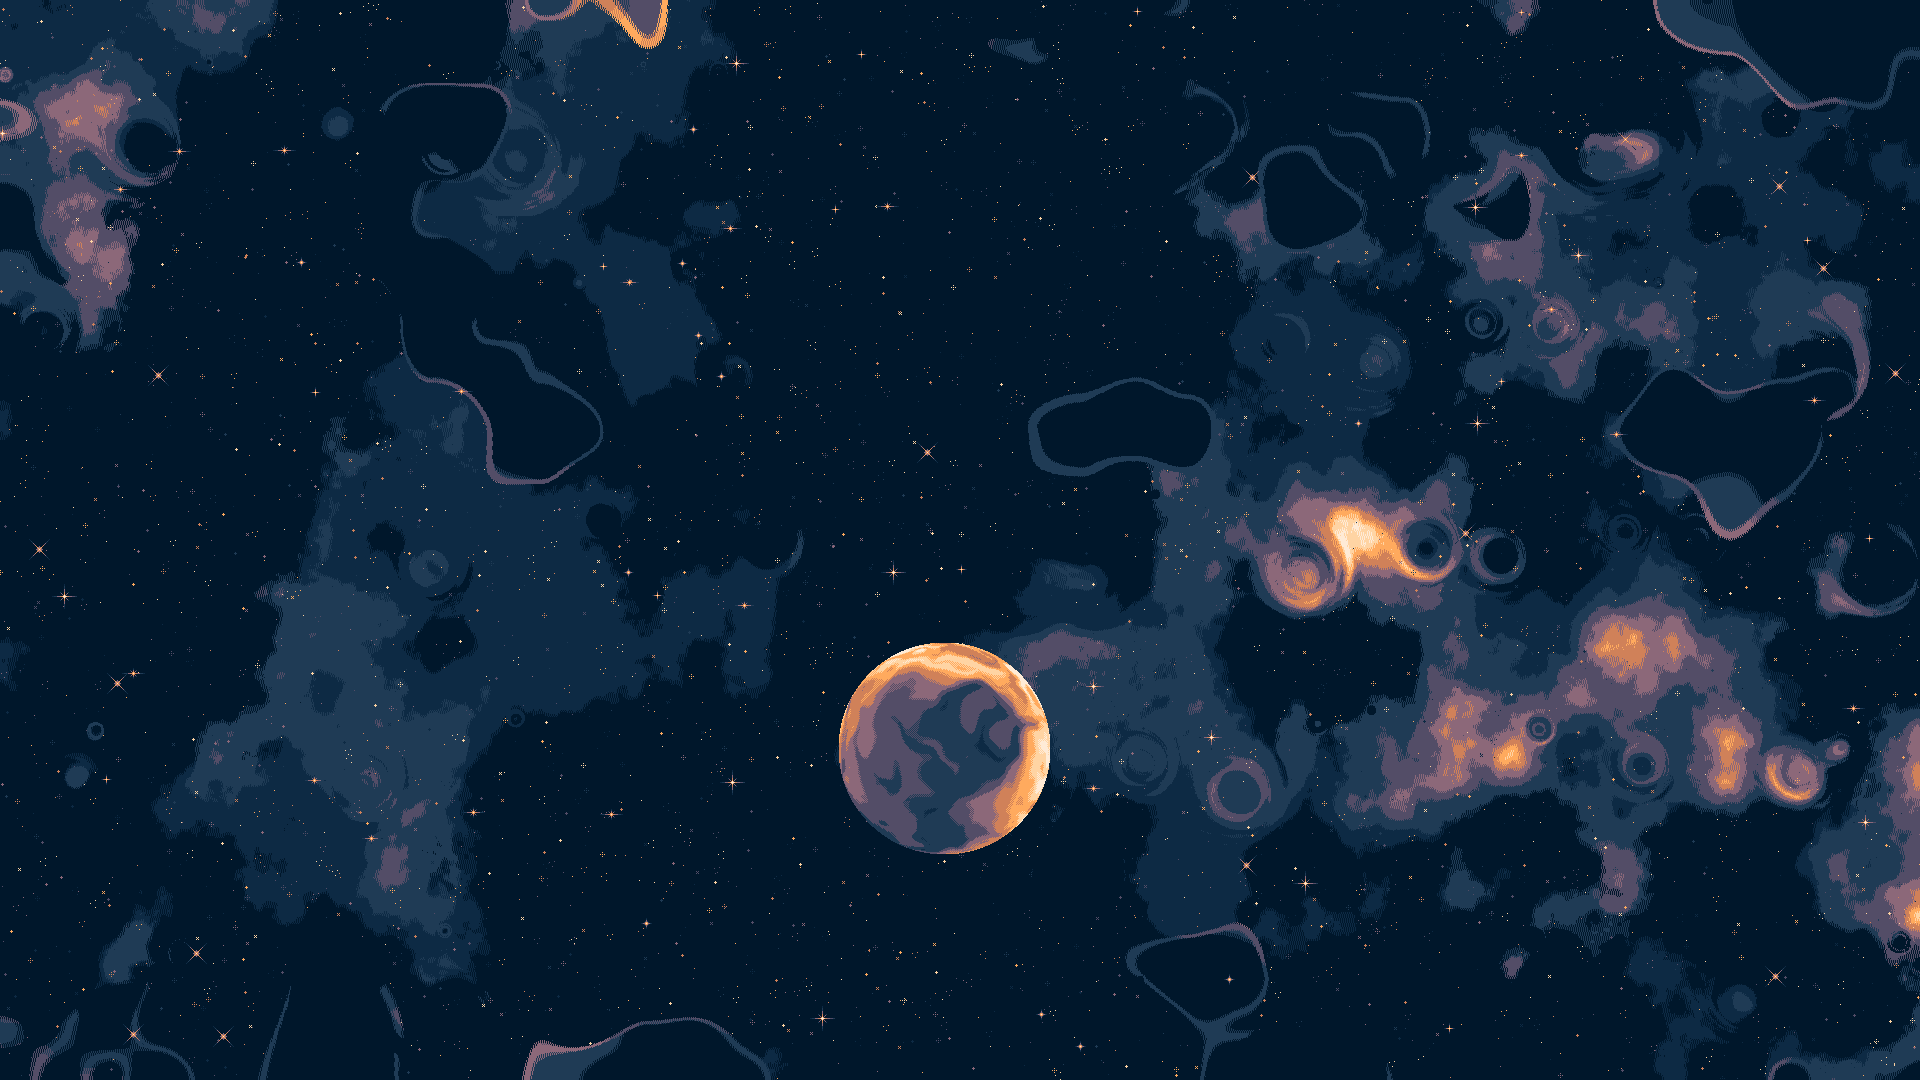
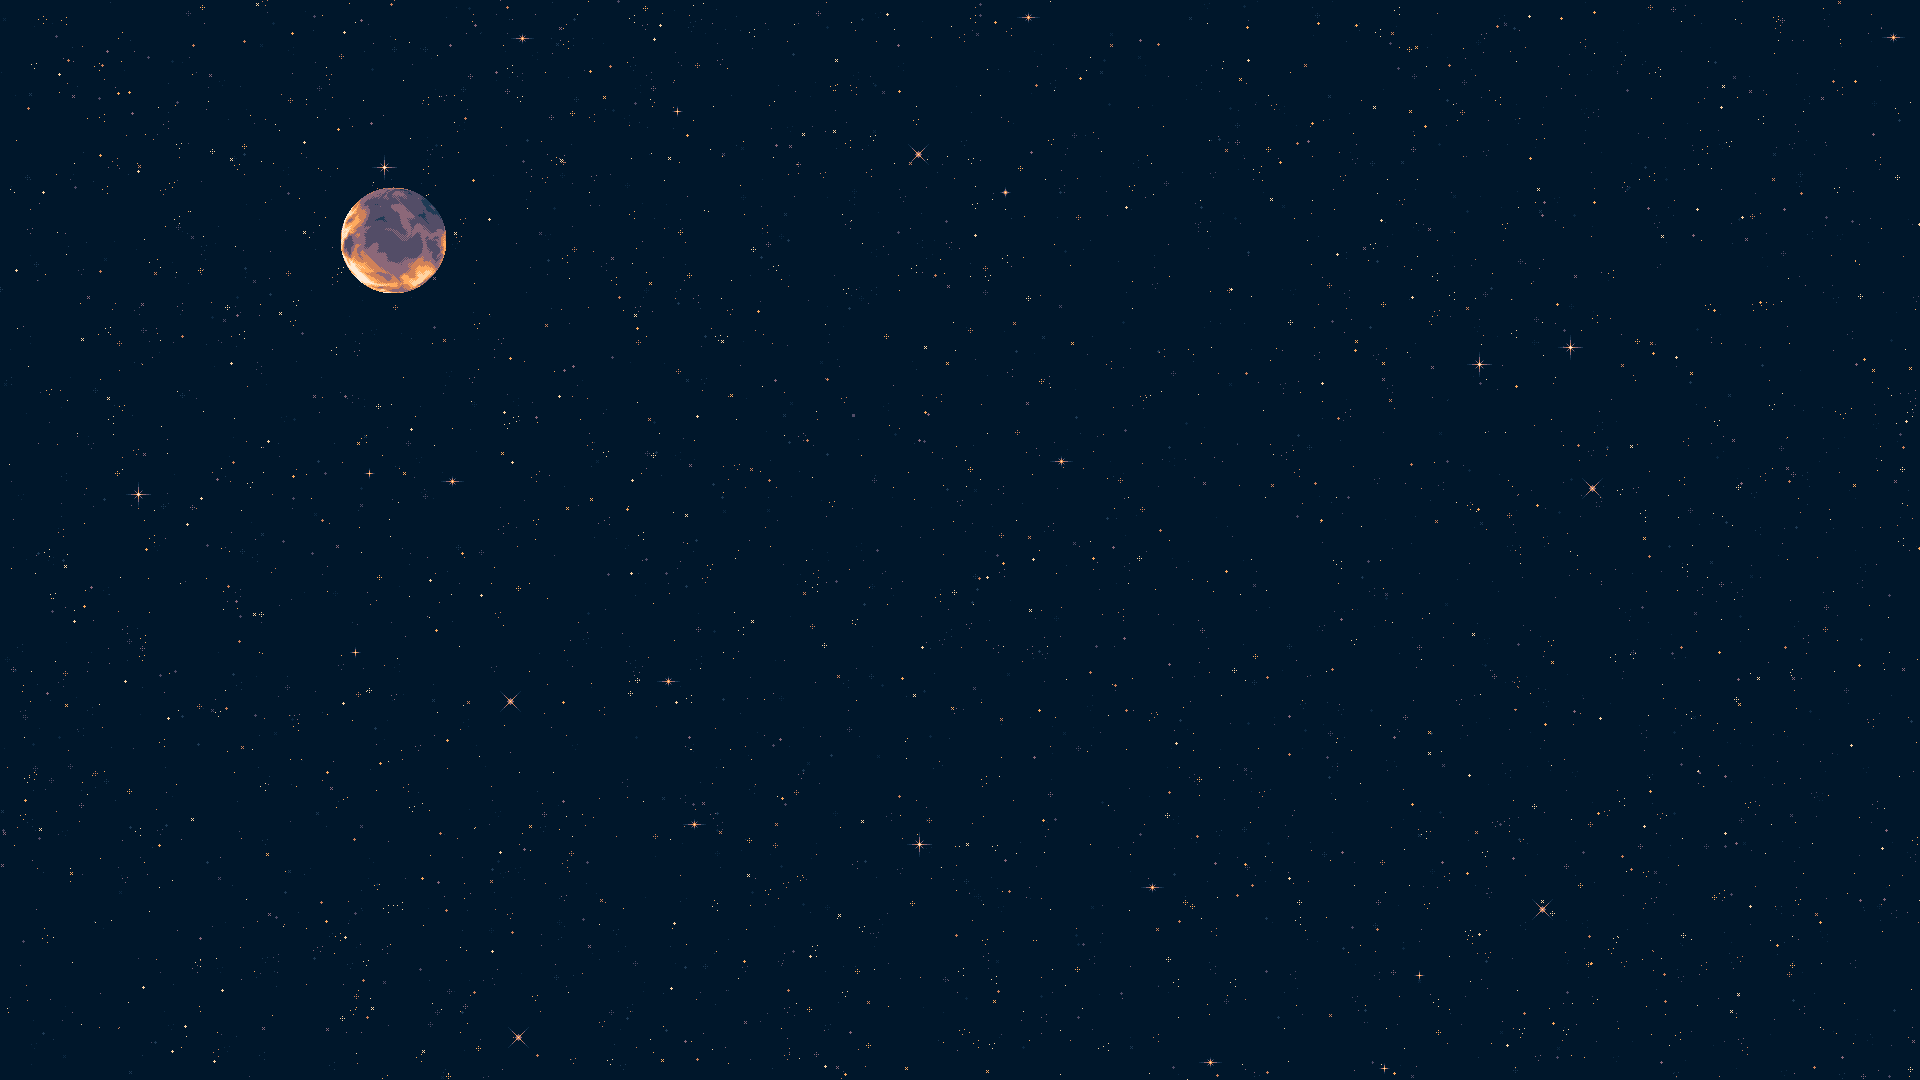
added player shooting, asteroids on level_1

diff --git a/src/entities/player.js b/src/entities/player.js
@@ -2,14 +2,28 @@ import k from "../kaplayCtx";
 
 export function makePlayer (pos) {
     const PLAYER_SPEED = 380;
+    const BULLET_SPEED = 1200;
     const player = k.add([
         k.sprite("player"),
         k.area(),
         k.anchor("center"),
         k.scale(3),
         k.pos(pos),
+        k.offscreen(),
+        k.animate(),
         {
             setControls () {
+                let playerWeapon = this.children[1];
+                let fireLeft = k.loop(0.1, () => {
+                    spawnBullet(k.vec2(this.pos.x - (this.width + 6) / 2, this.pos.y - this.width / 2));
+                    k.play("player-shot", {volume: 0.01, loop: false});
+                });
+                let fireRight = k.loop(0.12, () => {
+                    spawnBullet(k.vec2(this.pos.x + (this.width + 6) / 2, this.pos.y - this.width / 2));
+                    k.play("player-shot", {volume: 0.01, loop: false});
+                });
+                fireLeft.paused = true; 
+                fireRight.paused = true;  
                 k.onButtonDown("moveLeft", () => {
                     this.move(-PLAYER_SPEED, 0);
                     if (this.pos.x < 48) this.pos.x = 48;
@@ -22,15 +36,33 @@ export function makePlayer (pos) {
                 })
 
                 k.onButtonPress("fire", () => {
-                    this.children[1].play("fire")
+                    playerWeapon.play("fire");
+                    fireLeft.paused = false;
+                    fireRight.paused = false;
                 })
                 k.onButtonRelease("fire", () => {
-                    this.children[1].play("idle")
+                    playerWeapon.play("idle");
+                    fireLeft.paused = true;
+                    fireRight.paused = true;
                 })
 
             },
-        }
+        },
     ])
+
+    function spawnBullet(p) {
+        k.add([
+            k.sprite("bullet", { anim: "move" }),
+            k.area(),
+            k.anchor("center"),
+            k.pos(p),
+            k.scale(3),
+            k.move(-90, BULLET_SPEED),
+            k.offscreen({ destroy: true }),
+            "bullet",
+        ]
+        )
+    }
 
     player.add([
         k.sprite("player-engine", { anim: "fly"}),

diff --git a/src/scenes/menu.js b/src/scenes/menu.js
@@ -2,20 +2,47 @@ import k from "../kaplayCtx";
 import { makePlayer } from "../entities/player"; 
 
 export default function menu() {
-    k.onKeyPress("space", () => k.go("level_1"));
-    k.add([k.sprite("level_1-bg"), k.pos(0, 0), k.opacity(0.8)]);
-    k.add([
+    let SHIP_SPEED = 200;
+    const speedIncrease = 200;
+
+    const ambienceSfx = k.play("main-menu_ambience", {volume: 0.02, loop: true});
+
+    k.add([k.sprite("menu-bg"), k.pos(0, 0), k.opacity(0.8)]);
+    const gartaguaText = k.add([
         k.text("THE GARTAGUA", { font: "pixelopolis", size: 200, letterSpacing: 18}),
         k.anchor("center"),
-        k.pos(k.center().x, 200)
+        k.pos(k.center().x, 200),
+        k.fixed(),
+        k.z(100)
     ])
-
-    k.add([
+    const spaceText = k.add([
         k.text("Press space to continue", { font: "pixelopolis", size: 60, letterSpacing: 2}),
         k.anchor("center"),
-        k.pos(k.center().x, k.center().y + 60)
+        k.pos(k.center().x, k.center().y + 60),
+        k.fixed(),
+        k.z(100)
     ])
 
     const player = makePlayer(k.vec2(k.center().x, k.center().y + 400));
     player.setControls();
+
+    let spacePressed = false;
+
+    k.onKeyPress("space", () => {
+        if (spacePressed === false) {
+            spacePressed = true;
+            player.onUpdate(() => {
+                player.move(0, - SHIP_SPEED);
+                SHIP_SPEED += speedIncrease;
+            })
+            gartaguaText.destroy();
+            spaceText.destroy();
+        }
+    });
+
+    player.onExitScreen(() => {
+        ambienceSfx.paused = true;
+        k.go("level_1");
+    });
+    
 }

diff --git a/src/main.js b/src/main.js
@@ -1,13 +1,15 @@
 import k from "./kaplayCtx";
-import menu from "./scenes/menu"
-import level_1 from "./scenes/level_1"
+import disclaimer from "./scenes/disclaimer";
+import menu from "./scenes/menu";
+import level_1 from "./scenes/level_1";
+
 
 function loadSprites() {
 //Backgrounds
+k.loadSprite("menu-bg", "graphics/menu-bg.png");
 k.loadSprite("level_1-bg", "graphics/level_1-bg.png");
 k.loadSprite("level_2-bg", "graphics/level_2-bg.png");
 k.loadSprite("level_3-bg", "graphics/level_3-bg.png");
-k.loadSprite("level_4-bg", "graphics/level_4-bg.png");
 
 //Projectiles
 k.loadSprite("bullet", "graphics/projectiles/bullet.png", {
@@ -162,6 +164,7 @@ k.loadSprite("support-explode", "graphics/destruction/support-explode.png",{
 
 //Sounds
 k.loadSound("main-menu_ambience", "sounds/main-menu_ambience.mp3");
+k.loadSound("player-shot","sounds/player-shot.mp3");
 
 //Fonts
 k.loadFont("pixelopolis", "fonts/pixelopolis9000.ttf");
@@ -170,10 +173,10 @@ k.loadFont("pixelopolis", "fonts/pixelopolis9000.ttf");
 loadSprites();
 
 //Scenes
+k.scene("disclaimer", disclaimer)
 k.scene("menu", menu)
 k.scene("level_1", level_1)
-// k.scene("level_2", level_2)
 // k.scene("level_3", level_3)
 // k.scene("game-over")
 // k.scene("game-won")
-k.go("menu");
+k.go("disclaimer");

diff --git a/src/scenes/level_1.js b/src/scenes/level_1.js
@@ -1,5 +1,32 @@
 import k from "../kaplayCtx";
+import { makePlayer } from "../entities/player";
+import { makeAsteroid } from "../entities/asteroid";
 
 export default function level_1() {
-    
+    k.add([k.sprite("level_1-bg"), k.pos(0, 0), k.opacity(0.8)]);
+
+    const spawnAsteroid = () => {
+        let randPosXTop = Math.floor(Math.random() * k.width()) + 1;
+        let randPosXBottom = Math.floor(Math.random() * k.width()) + 1;
+        let randSize = Math.floor(Math.random() * 3) + 1;
+
+        const asteroid = makeAsteroid(k.vec2(randPosXTop, 0), randSize);
+        asteroid.onUpdate(() => {
+            asteroid.moveTo(k.vec2(randPosXBottom, k.height() + 400), 400);
+        })
+        const waitTime = k.rand(0.5, 6)
+        asteroid.onExitScreen(() => {
+            if (asteroid.pos.y > k.height()) k.destroy(asteroid);
+        });
+
+        k.wait(waitTime, spawnAsteroid);
+    }
+    spawnAsteroid();
+
+    const player = makePlayer(k.vec2(k.center().x, k.center().y + 400));
+
+    player.setControls();
+
+
 }
+

diff --git a/src/scenes/disclaimer.js b/src/scenes/disclaimer.js
@@ -1,0 +1,12 @@
+import k from "../kaplayCtx"
+export default function disclaimer () {
+    k.add([
+        k.text("DISCLAIMER: All assets used are publicly owned", { font: "pixelopolis", size: 120, letterSpacing: 10}),
+        k.anchor("center"),
+        k.pos(k.center().x, k.center().y)
+    ])
+    
+    k.onKeyPress(() => {
+        k.go("menu")
+    })
+}

diff --git a/src/entities/asteroid.js b/src/entities/asteroid.js
@@ -1,0 +1,16 @@
+import k from "../kaplayCtx";
+
+export function makeAsteroid (pos,size) {
+
+    const asteroid = k.add([
+        k.sprite("asteroid"),
+        k.area(),
+        k.anchor("center"),
+        k.scale(size),
+        k.pos(pos),
+        k.offscreen(),
+        "enemy"
+    ]);
+    console.log("asteroid spawned")
+    return asteroid;
+}

diff --git a/src/kaplayCtx.js b/src/kaplayCtx.js
@@ -16,7 +16,6 @@ const k = kaplay({
     },
     
     fire: {
-        keyboard: ["space"],
         mouse: "left",
     }
   },
